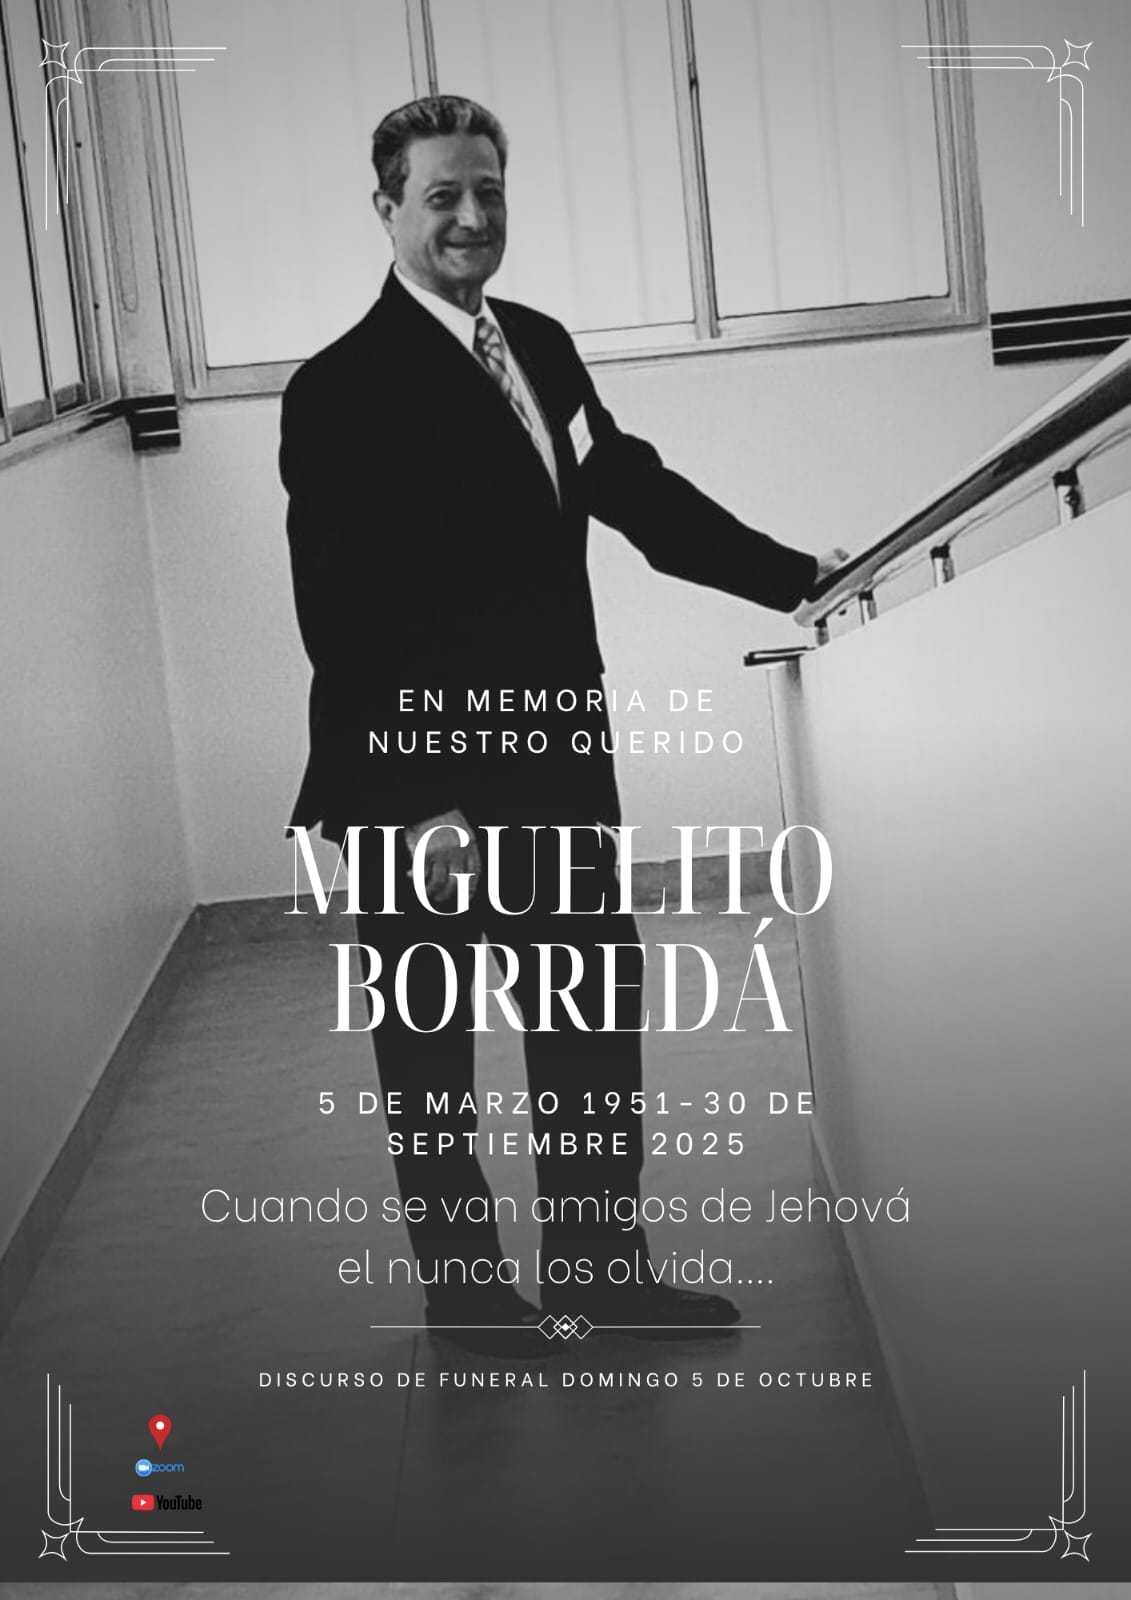
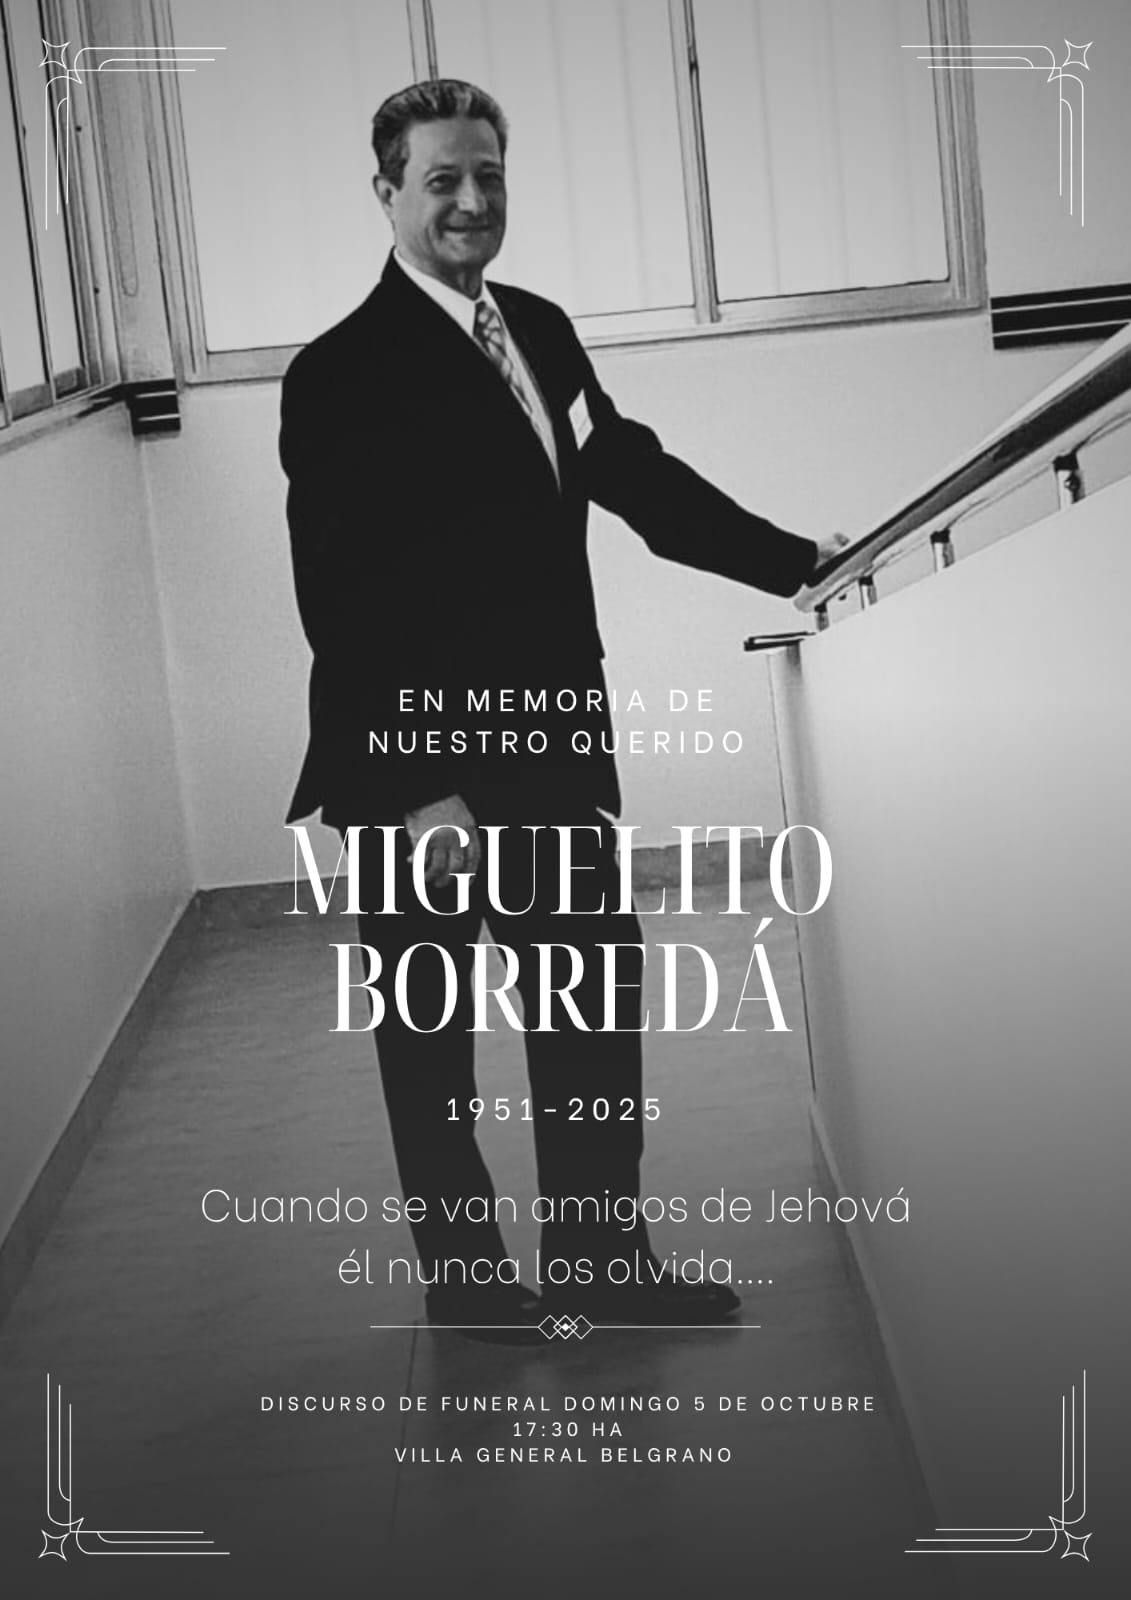
final

diff --git a/index.html b/index.html
@@ -5,24 +5,22 @@
     <meta name="viewport" content="width=device-width, initial-scale=1.0">
     <title>Miguel Borredá</title>
     <link rel="stylesheet" href="style.css">
+    <link rel="shortcut icon" href="miniatura.jpg" type="image/x-icon">
     <meta property="og:image" content="https://raw.githubusercontent.com/LucjanStaniszew/Miguel/refs/heads/main/miniatura.jpg">
 </head>
 <body>
     <header>
         <br><br><br>
         <img src="./Inv.jpg" alt="Invitación">
+        <br>
     </header>
-    <main>
+    <!-- <main>
         <br>
         <h3>Discurso de Funeral </h3>
-        <h4>En memoria de nuestro querido</h4>
-        <h3>Miguelito Borredá</h3>
-        <h4>5 de Marzo 1951 - 30 de Septiembre 2025</h4>
         <h3>Domingo 5 de Octubre</h3>
         <h3>17:30hs</h3>
-    </main>
+    </main> -->
     <footer>
-        <hr>
         <p>
             <div>
                 <img src="./zoom.png" alt="zoom" class="zoom">
